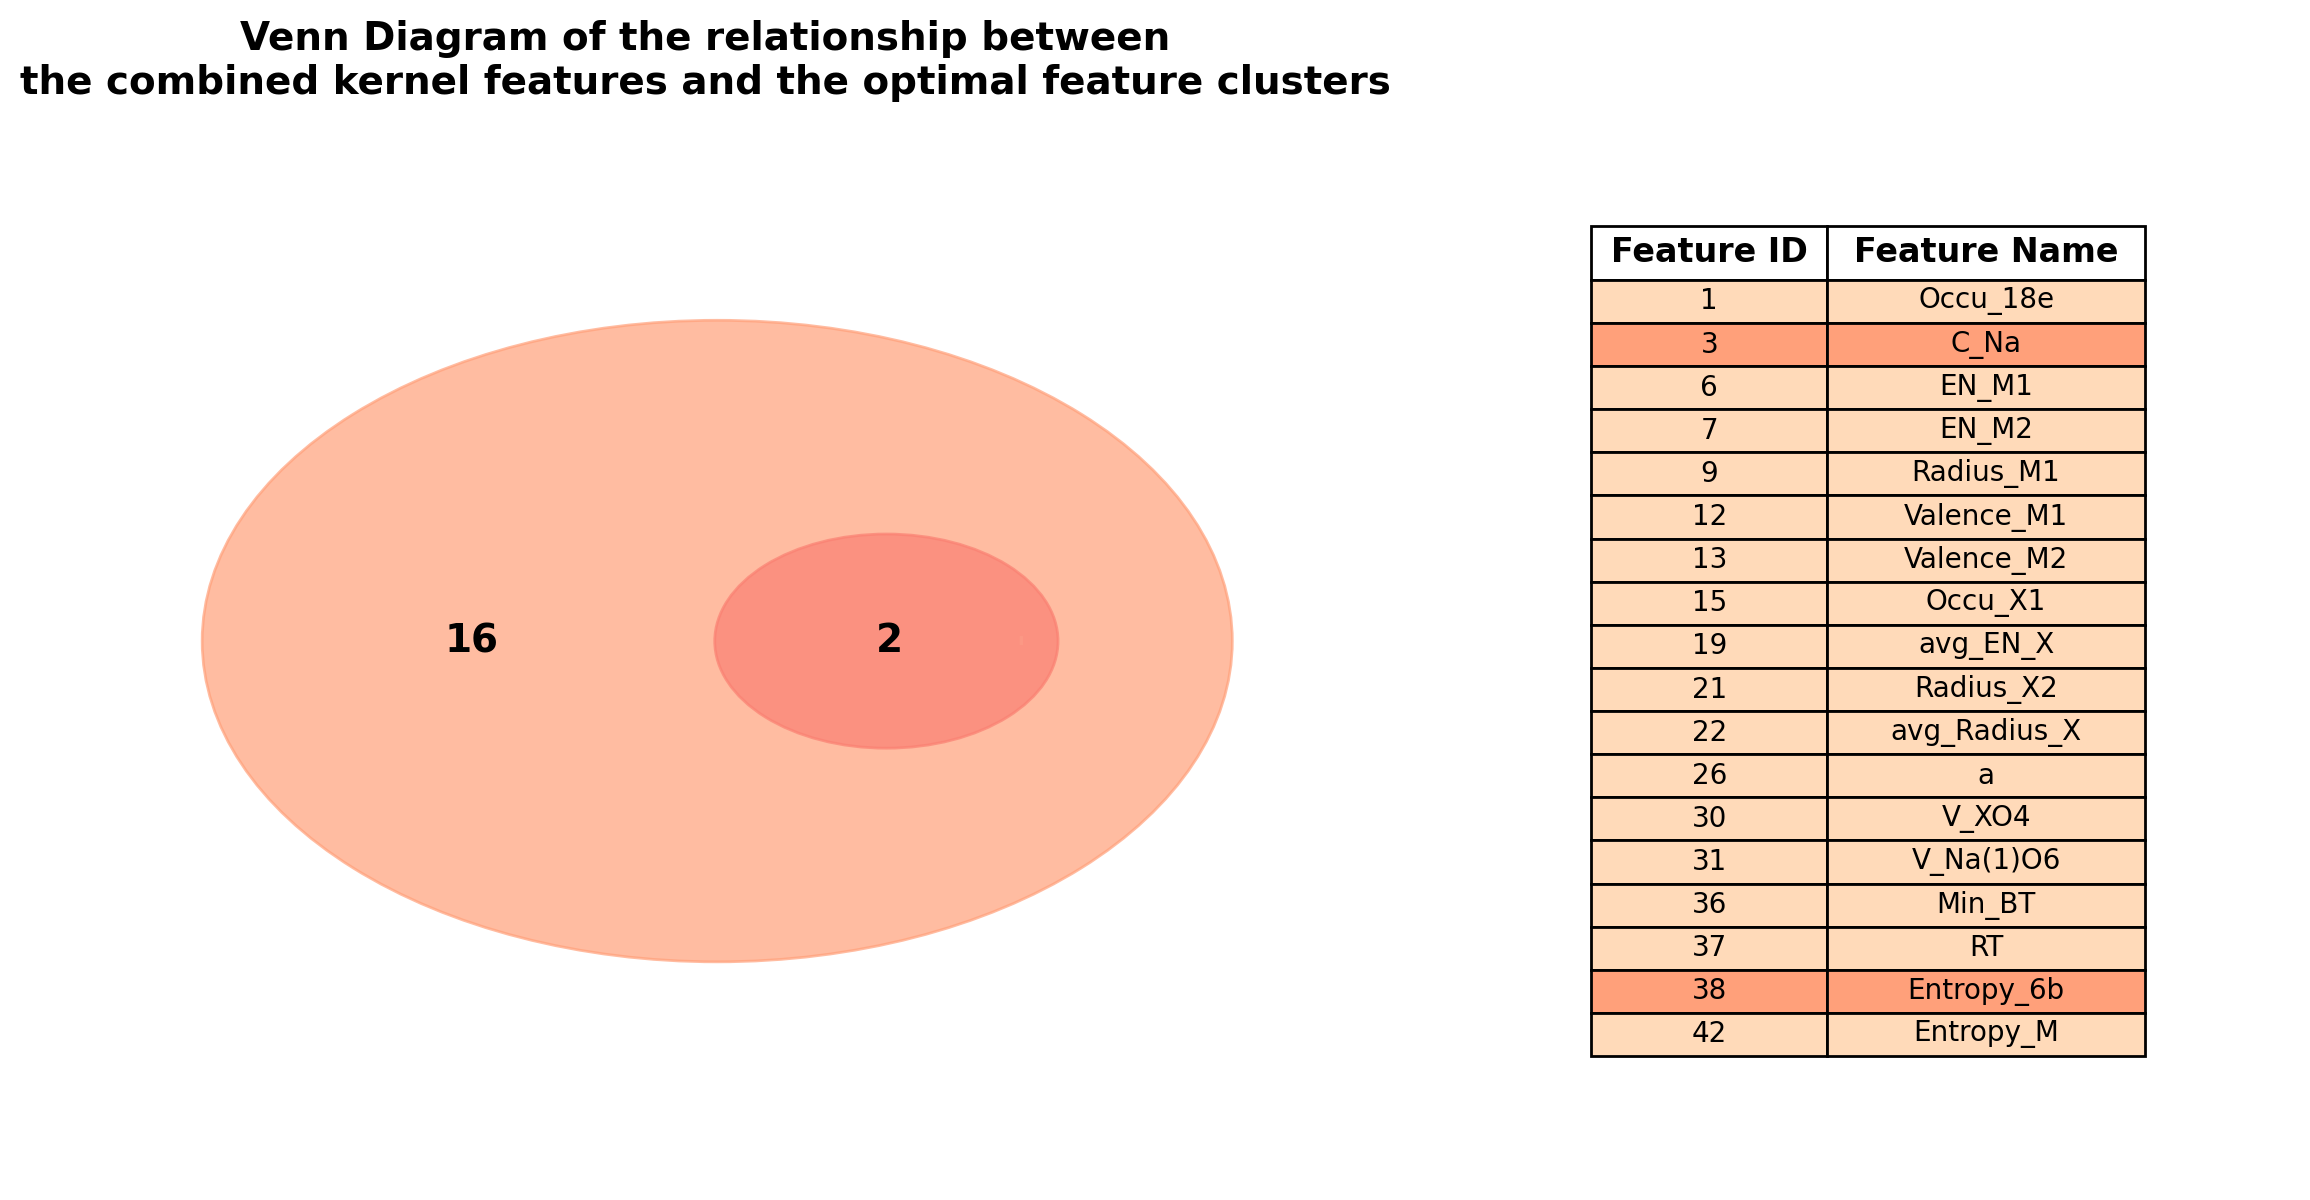
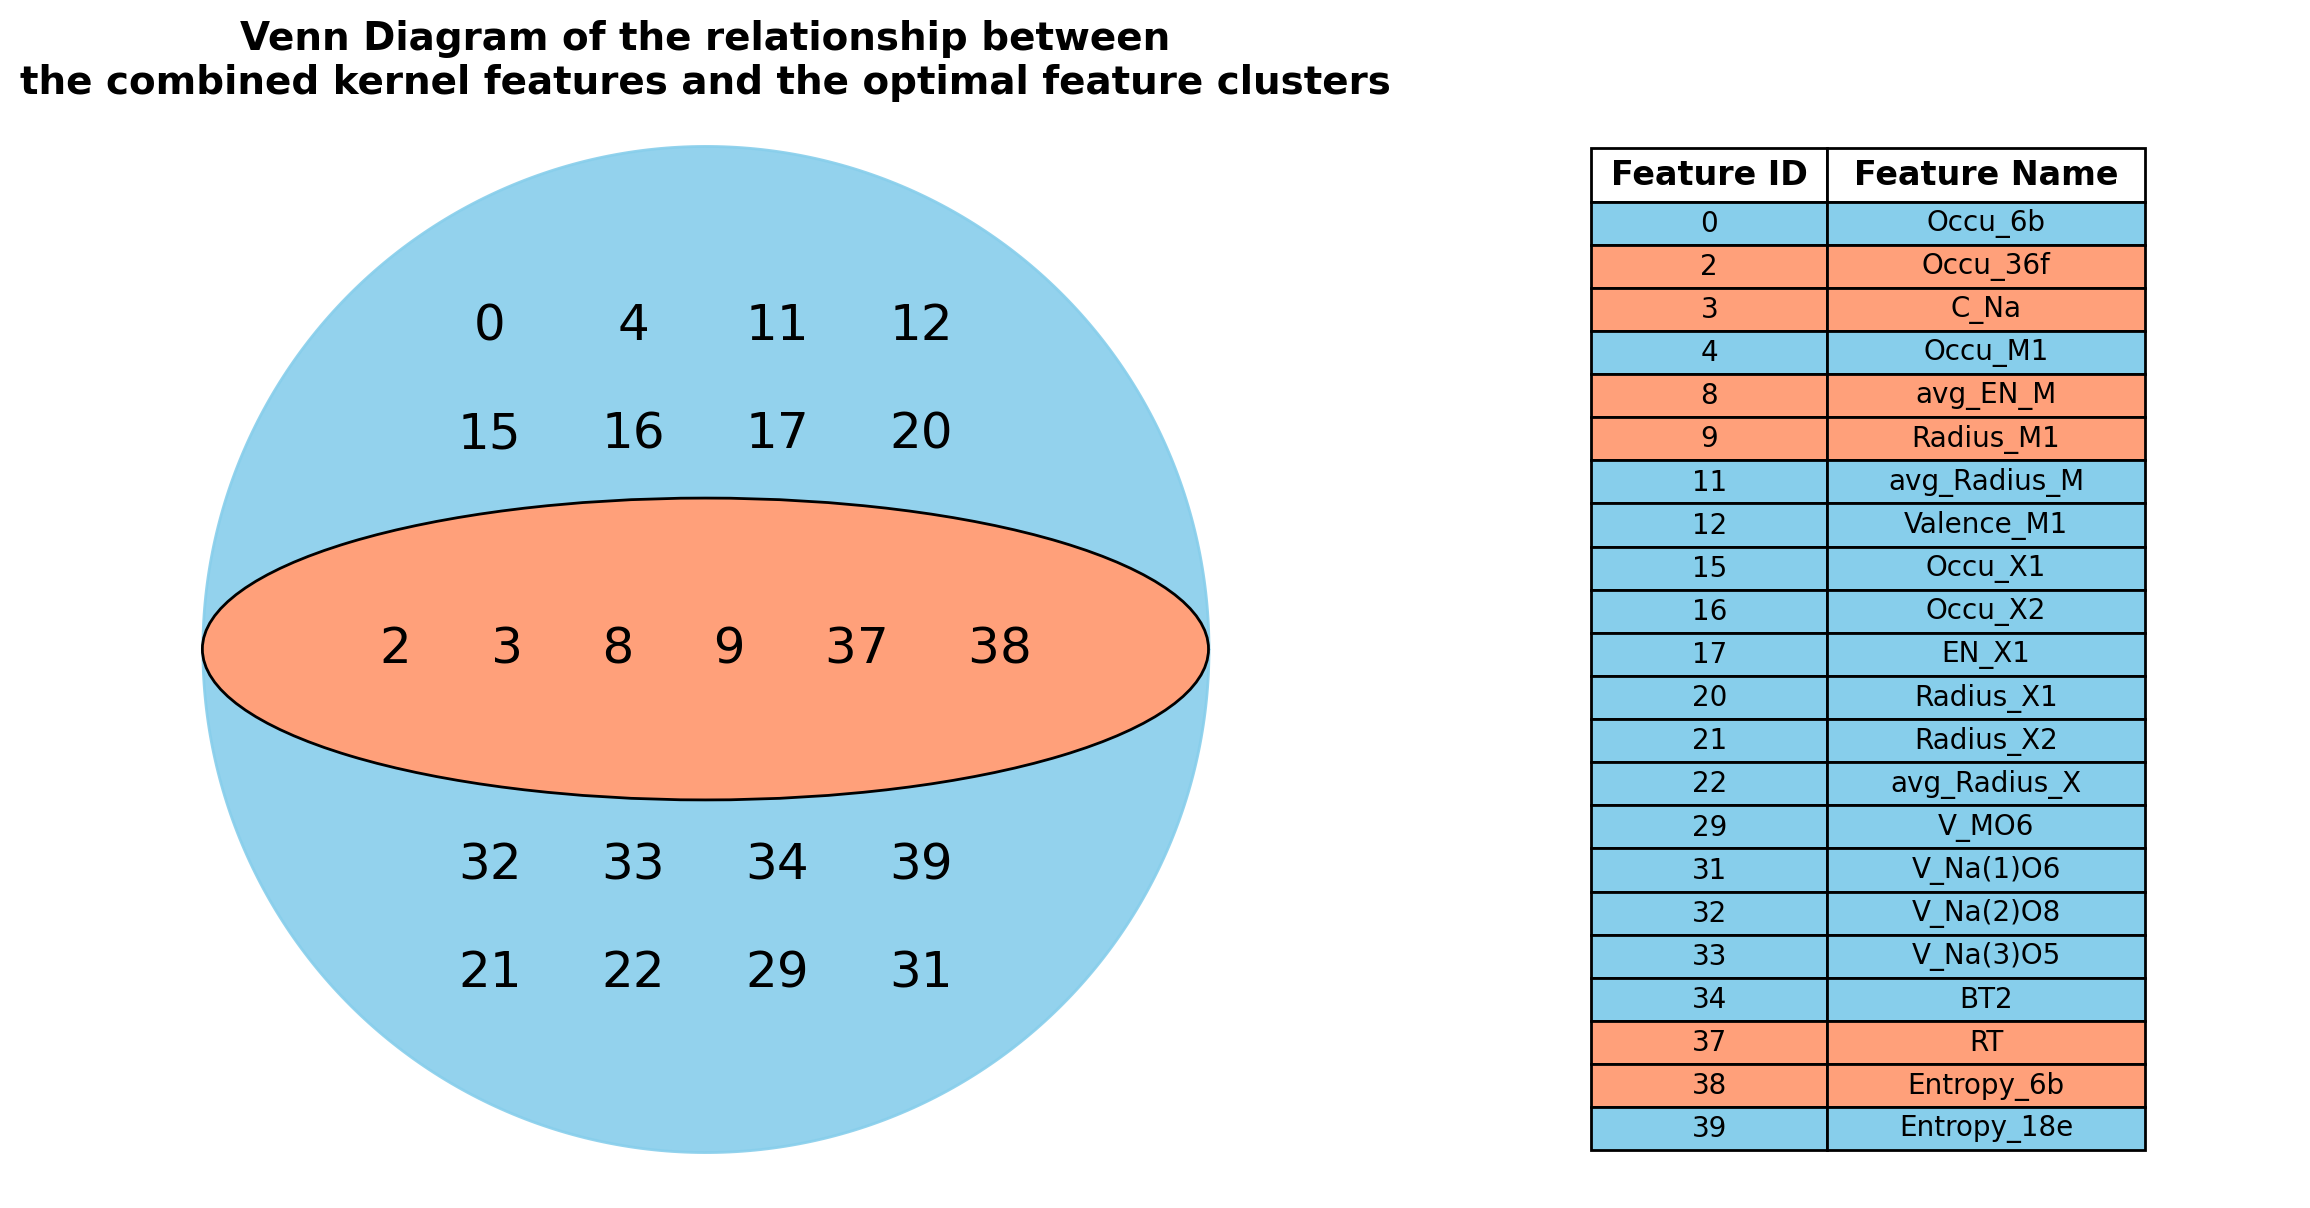
对特征团构建可视化进行的修改

diff --git a/src/main/resources/python/MultifacetedModeling/FeatureVenn.py b/src/main/resources/python/MultifacetedModeling/FeatureVenn.py
@@ -1,13 +1,13 @@
 import pandas as pd
-from matplotlib.patches import Ellipse
-from matplotlib_venn import venn2
+from matplotlib.patches import Circle, Ellipse
 import matplotlib.pyplot as plt
 import sys
 import urllib.parse
 import json
 import re
+import numpy as np
+import random
 
-# 定义编号与内容的映射（0-37）
 feature_map = {
     0: "Occu_6b", 1: "Occu_18e", 2: "Occu_36f", 3: "C_Na", 4: "Occu_M1", 5: "Occu_M2",
     6: "EN_M1", 7: "EN_M2", 8: "avg_EN_M", 9: "Radius_M1", 10: "Radius_M2",
@@ -20,17 +20,6 @@ feature_map = {
     40: "Entropy_36f", 41: "Entropy_Na", 42: "Entropy_M", 43: "Entropy_X", 44: "T"
 }
 
-# 接收参数
-kernel1 = sys.argv[1]
-kernel2 = sys.argv[2]
-kernel3 = sys.argv[3]
-
-# 解码 URL 参数
-kernel1 = urllib.parse.unquote(kernel1)
-kernel2 = urllib.parse.unquote(kernel2)
-kernel3 = urllib.parse.unquote(kernel3)
-
-# 将字符串或 JSON 转换为集合
 def parse_to_set(data):
     if isinstance(data, str):
         try:
@@ -49,23 +38,19 @@ def parse_to_set(data):
         raise ValueError("Unsupported data format")
     return set(map(int, numbers))
 
-kernel1 = parse_to_set(kernel1)
-kernel2 = parse_to_set(kernel2)
-kernel3 = parse_to_set(kernel3)
+kernel1 = parse_to_set(urllib.parse.unquote(sys.argv[1]))
+kernel2 = parse_to_set(urllib.parse.unquote(sys.argv[2]))
+kernel3 = parse_to_set(urllib.parse.unquote(sys.argv[3]))
 
-# 计算交集
 kernel4 = kernel1 | kernel2
 
-# 创建特征表格
 def create_feature_table(kernel3, kernel4, feature_map):
     data = []
     for key, value in feature_map.items():
-        if key in kernel3 and key in kernel4:
-            category, color = "Intersection", "#FFA07A"  # 黄色
+        if key in kernel4:
+            category, color = "Kernel4 (Intersection)", "#FFA07A"
         elif key in kernel3:
-            category, color = "Kernel3 Only", "#FFDAB9"  # 绿色
-        elif key in kernel4:
-            category, color = "Kernel4 Only", "#FA8072"  # 蓝色
+            category, color = "Kernel3 Only", "#87CEEB"
         else:
             continue
         data.append({"Feature ID": key, "Feature Name": value, "Category": category, "Color": color})
@@ -73,81 +58,64 @@ def create_feature_table(kernel3, kernel4, feature_map):
 
 feature_table = create_feature_table(kernel3, kernel4, feature_map)
 
-fig, axes = plt.subplots(
-    1, 2, figsize=(15, 7),
-    gridspec_kw={'width_ratios': [1.75, 1]}
-)
+fig, axes = plt.subplots(1, 2, figsize=(15, 7), gridspec_kw={'width_ratios': [1.75, 1]})
 
-venn = venn2([kernel3, kernel4], set_labels=("", ""), ax=axes[0])
+theta = np.linspace(0, 2 * np.pi, 500)
+x = np.cos(theta) * 1.4
+y = np.sin(theta) * 1.4
+axes[0].fill_between(x, 0, y, where=(y > 0), color="#87CEEB", alpha=0.9)
+axes[0].fill_between(x, 0, y, where=(y < 0), color="#87CEEB", alpha=0.9)
+ellipse = Ellipse((0, 0), width=2.8, height=0.6*1.4, edgecolor="black", facecolor="#FFA07A", alpha=1)
+axes[0].add_patch(ellipse)
 
-colors = {
-    '10': "#FFA07A",
-    '01': "#FFDAB9",
-    '11': "#FA8072",
-}
+kernel4_features = sorted(kernel4)
+kernel4_text = "     ".join(map(str, kernel4_features))
+axes[0].text(0, 0, kernel4_text, fontsize=18, ha="center", va="center", color="black")
 
-for subset_label in venn.subset_labels:
-    if subset_label and subset_label.get_text() == "0":
-        subset_label.set_visible(False)
+kernel3_only_features = sorted(kernel3 - kernel4)
+num_features = len(kernel3_only_features)
+num_rows_per_region = 2
+col_spacing = 0.4
+row_spacing = 0.3
 
-# 替换圆形为椭圆
-max_width = 2.0  # 设置椭圆的最大宽度
-max_height = 1.0  # 设置椭圆的最大高度
+has_extra = num_features % 2 != 0
+num_main_features = num_features - 1 if has_extra else num_features
+num_cols = (num_main_features // 2 + num_rows_per_region - 1) // num_rows_per_region
 
-for subset, color in colors.items():
-    patch = venn.get_patch_by_id(subset)
-    if patch:
-        path = patch.get_path()
-        vertices = path.vertices
-        center = vertices.mean(axis=0)  # 中心点
-        center[0] -= 0.175
-        radius_x = (vertices[:, 0].max() - vertices[:, 0].min()) / 2
-        radius_y = (vertices[:, 1].max() - vertices[:, 1].min()) / 2
+upper_features = kernel3_only_features[:num_main_features // 2]
+for i, feature in enumerate(upper_features):
+    row = i // num_cols
+    col = i % num_cols
+    total_width = (num_cols - 1) * col_spacing
+    x_pos = -total_width / 2 + col * col_spacing
+    y_pos = 0.9 - row * row_spacing
+    axes[0].text(x_pos, y_pos, str(feature), fontsize=18, ha="center", va="center", color="black")
 
-        # 限制椭圆的宽度和高度
-        adjusted_width = min(1.5 * radius_x * 1.5, max_width)
-        adjusted_height = min(1.75 * radius_y * 0.8, max_height)
+lower_features = kernel3_only_features[num_main_features // 2:num_main_features]
+for i, feature in enumerate(lower_features):
+    row = i // num_cols
+    col = i % num_cols
+    total_width = (num_cols - 1) * col_spacing
+    x_pos = -total_width / 2 + col * col_spacing
+    y_pos = -0.9 + row * row_spacing
+    axes[0].text(x_pos, y_pos, str(feature), fontsize=18, ha="center", va="center", color="black")
 
-        patch.remove()  # 移除圆形
-        ellipse = Ellipse(
-            xy=center,
-            width=adjusted_width,  # 使用限制后的宽度
-            height=adjusted_height,  # 使用限制后的高度
-            color=color,
-            alpha=0.7
-        )
-        axes[0].add_patch(ellipse)
+if has_extra:
+    extra_feature = kernel3_only_features[-1]
+    axes[0].text(0, -1.2, str(extra_feature), fontsize=18, ha="center", va="center", color="black")
 
+axes[0].set_aspect('equal', adjustable='box')
+axes[0].set_xlim(-1.5, 1.5)
+axes[0].set_ylim(-1.5, 1.5)
+axes[0].axis("off")
 
 axes[0].set_title(
     "Venn Diagram of the relationship between\n"
     "the combined kernel features and the optimal feature clusters",
     fontsize=14,
-    fontweight="bold",
-    pad=0  # 适当调整标题与图之间的距离
+    fontweight="bold"
 )
 
-axes[0].title.set_y(1)
-
-for subset_label in venn.subset_labels:
-    if subset_label:  # 确保标签存在
-        subset_label.set_fontsize(14)  # 设置字体大小
-        subset_label.set_fontweight('bold')  # 可选：加粗数字
-
-for subset, subset_label in zip(('10', '01', '11'), venn.subset_labels):
-    if subset_label:
-        if subset == '10':
-            subset_label.set_x(subset_label.get_position()[0] - 0.1)
-            subset_label.set_y(subset_label.get_position()[1] )
-        elif subset == '01':
-            subset_label.set_x(subset_label.get_position()[0] + 0.2)
-            subset_label.set_y(subset_label.get_position()[1] - 0.1)
-        elif subset == '11':
-            subset_label.set_x(subset_label.get_position()[0] - 0.15)
-            subset_label.set_y(subset_label.get_position()[1])
-
-
-# 绘制表格
 axes[1].axis("off")
 table_data = feature_table[["Feature ID", "Feature Name"]]
 table = axes[1].table(
@@ -158,28 +126,24 @@ table = axes[1].table(
     colLoc="center"
 )
 
-# 根据分类为行着色
 for i, key in enumerate(table_data.index):
     category = feature_table.loc[key, "Category"]
     color = feature_table.loc[key, "Color"]
     for j in range(len(table_data.columns)):
         table[(i + 1, j)].set_facecolor(color)
 
-# 调整表格样式
 table.auto_set_font_size(False)
 table.set_fontsize(15)
 table.auto_set_column_width(col=list(range(len(table_data.columns))))
 
 for (row, col), cell in table.get_celld().items():
-    if row == 0:  # 表头单元格
-        cell.set_fontsize(12)  # 调整表头字体大小
-        cell.set_height(0.05)  # 设置表头单元格高度
-        cell.set_text_props(weight='bold')  # 加粗表头
-    else:  # 数据单元格
-        cell.set_fontsize(10)  # 调整数据单元格字体大小
-        cell.set_height(0.04)  # 设置数据单元格高度
+    if row == 0:
+        cell.set_fontsize(12)
+        cell.set_height(0.05)
+        cell.set_text_props(weight='bold')
+    else:
+        cell.set_fontsize(10)
+        cell.set_height(0.04)
 
-plt.subplots_adjust(wspace=0)  # 调整子图间距
-
-# 保存图片
+plt.subplots_adjust(wspace=0)
 plt.savefig("venn_diagram.png", dpi=200, bbox_inches="tight")
